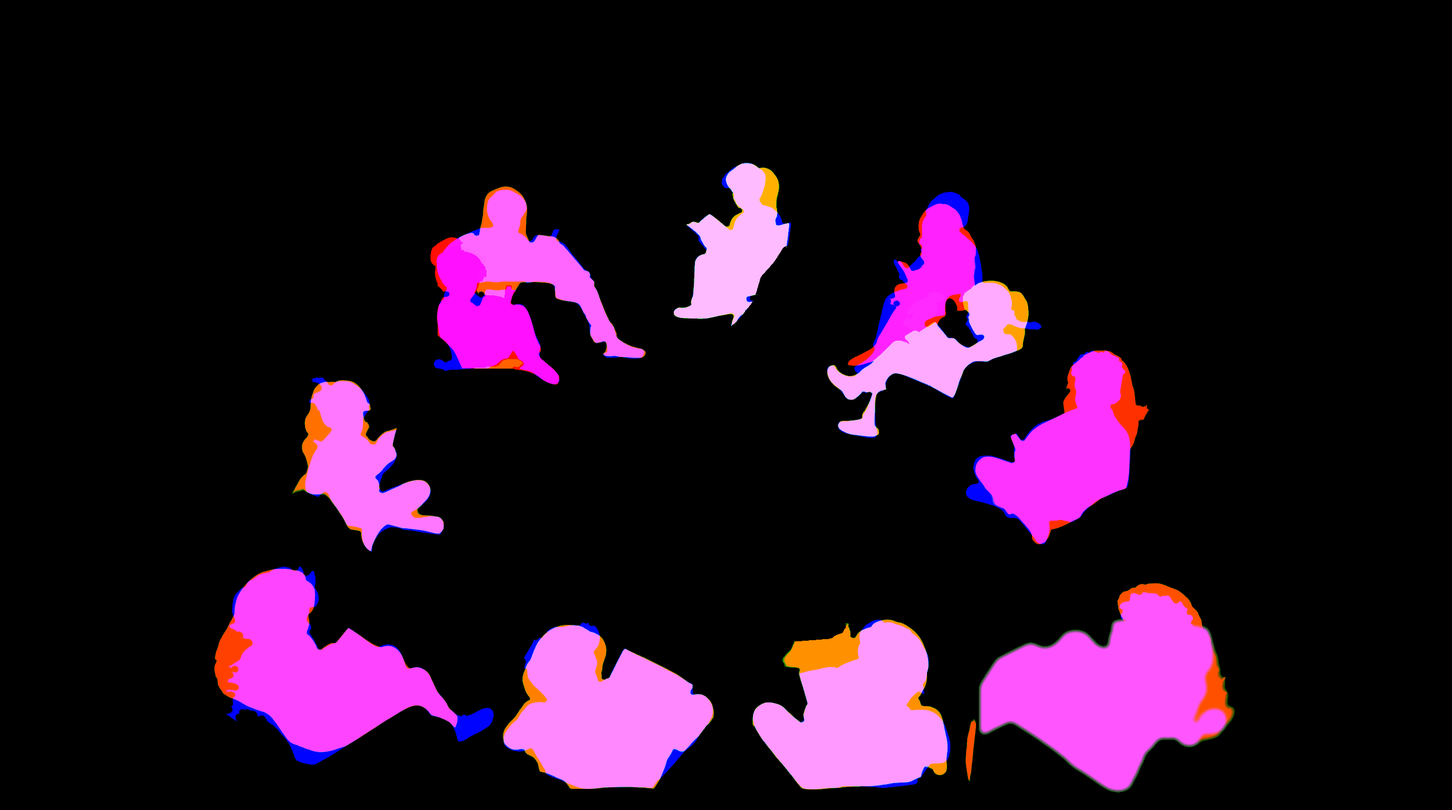
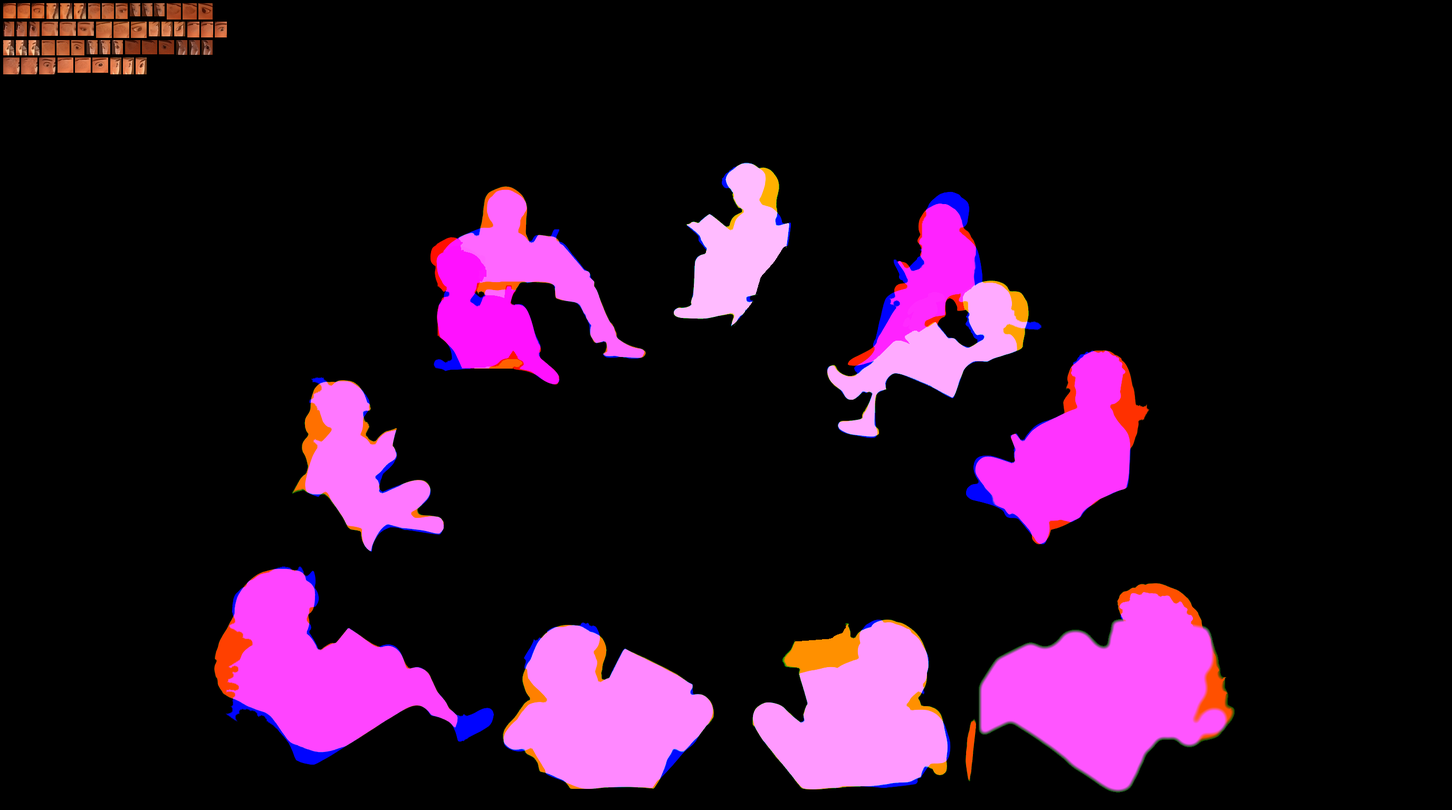
Reading room: eyes close under a lid of the reader's own skin
The founder: the blinks are broken. Zoomed in, a shut eye was a light plate
with a dark rim: the lid was painted from a few rows of skin above the eye.

Every eye's closed lids are now made from the face itself
(prototypes/reading-room/build_lids.py): the eye and its lash line are filled
in from the skin around them, with the skin's own grain, and kept in a corner
of the people mask no reader reaches. The shader slides that skin down from
the lash line, carries the lash line on its edge, and stops at the eye's own
corner (a wide outline had dragged a line across the nose).

Also: the man by day in round glasses closes his eye inside the lens and keeps
the frame; eyes hidden by hair or reflections no longer blink; a few eyes
were re-read where their points were off; every eye of a hall fits in the
shader at once (NE 8 -> 10), so no face winks. CLAUDE.md notes how these
pictures are built.

Changed region(s): [[0.0, 0.0, 0.1562, 0.0938]]

diff --git a/frontend/src/widgets/ReadingRoom/casts.js b/frontend/src/widgets/ReadingRoom/casts.js
@@ -1,11 +1,11 @@
 /* The reading room's two casts, from the founder's renders of 2026-10-06. Per hall (a: the wide photo, m: the phones'
    portrait):
    CAST_EYES: where each new face's eyes are, so the lids close over them, by time of day and cast (f, m), reader by
-   reader, as engine.js keeps a rig's eyes;
+   reader, as engine.js keeps a rig's eyes, and where their closed lids wait in the people mask (build_lids.py);
    CAST_BOX: each reader's box, grown to hold their figure in every render (build_figures.py), so none is cut;
    CAST_PAGES: page turns for the readers the old rig had none for (casts/pages.json), as engine.js PAGES, with
    mode 2 (an open book facing us) or 3 (a book seen from its cover: only the sheet's edge flicks past it).
    Written by prototypes/reading-room/casts_js.py; do not edit by hand. */
-export const CAST_EYES={"a":{"day":{"f":{"6":[[0.35102,0.2666,0.00277,-0.000495,0.001758,0.002279,0.000977,0]],"1":[[0.32068,0.34896,0.00303,-8.5e-05,0.002214,0.002344,0.0014,0],[0.3284,0.34873,0.00221,-0.000293,0.002376,0.002441,0.00112,0]],"2":[[0.64528,0.29219,0.00263,-0.000247,0.001432,0.002604,0.0011,0],[0.63854,0.2918,0.00155,8.5e-05,0.001562,0.001562,0.000879,0]],"3":[[0.75309,0.48724,0.0033,-0.000247,0.002148,0.00319,0.001198,0],[0.7432,0.48268,0.00233,0.000417,0.002344,0.002344,0.0011,0]],"7":[[0.23519,0.51989,0.00341,-0.000371,0.002507,0.003158,0.000801,0],[0.24613,0.51549,0.00168,-0.000254,0.001693,0.002214,0.000703,0]]},"m":{"6":[[0.35238,0.27266,0.00266,-0.000247,0.001432,0.001562,0.000977,0]],"1":[[0.32097,0.34876,0.00327,-0.000104,0.00319,0.004492,0.0014,0],[0.32812,0.34753,0.0021,-0.000254,0.002474,0.002995,0.00112,0]],"2":[[0.65162,0.27734,0.00208,-8.5e-05,0.001562,0.001758,0.0011,0],[0.64462,0.27572,0.00166,-0.000169,0.001497,0.001628,0.000879,0]],"3":[[0.75307,0.4903,0.00306,0.0,0.002018,0.00293,0.001198,0],[0.74302,0.48542,0.00202,-8.5e-05,0.002344,0.002604,0.0011,0]],"7":[[0.23868,0.52448,0.00359,-0.000247,0.002279,0.002409,0.000801,0],[0.24797,0.52031,0.00148,-8.5e-05,0.002018,0.002148,0.000703,0]]}},"night":{"f":{"6":[[0.35129,0.2668,0.00377,-0.000247,0.001562,0.002344,0.000977,0]],"1":[[0.32028,0.34971,0.00263,-0.000124,0.00166,0.003158,0.0014,0],[0.32812,0.3498,0.00233,-0.000332,0.002539,0.002669,0.00112,0]],"2":[[0.64515,0.29329,0.00235,-0.000169,0.001562,0.001823,0.0011,0],[0.63863,0.29219,0.00166,8.5e-05,0.001562,0.001693,0.000879,0]],"3":[[0.75365,0.48789,0.00306,-0.000247,0.002865,0.003255,0.001198,0],[0.74331,0.48138,0.00202,8.5e-05,0.002344,0.002539,0.0011,0]],"7":[[0.23556,0.52005,0.00355,-0.000247,0.002669,0.00319,0.000801,0],[0.24586,0.51589,0.00202,-0.000254,0.002018,0.002279,0.000703,0]]},"m":{"6":[[0.35247,0.27148,0.00388,-0.00041,0.002865,0.003255,0.000977,0]],"1":[[0.32013,0.34782,0.00237,-0.000625,0.002246,0.002181,0.0014,0],[0.32776,0.34629,0.0021,-0.000332,0.002279,0.002669,0.00112,0]],"2":[[0.65189,0.27728,0.0029,-0.000163,0.001823,0.002214,0.0011,0],[0.64462,0.27572,0.0021,-0.000169,0.001758,0.002148,0.000879,0]],"3":[[0.75363,0.49004,0.00335,0.000163,0.001953,0.002344,0.001198,0],[0.74284,0.48509,0.00197,0.0,0.002344,0.002865,0.0011,0]],"7":[[0.2389,0.52422,0.0035,-0.000247,0.002865,0.002669,0.000801,0],[0.24747,0.52083,0.0019,-8.5e-05,0.002604,0.00293,0.000703,0]]}}},"m":{"day":{"f":{"6":[[0.25749,0.37725,0.00377,-0.000142,0.000872,0.00109,0.000472,0]],"1":[[0.21029,0.42068,0.00496,-9.1e-05,0.000763,0.000981,0.000581,0]],"2":[[0.736,0.39117,0.00456,-9.1e-05,0.00069,0.000908,0.000472,0],[0.72217,0.39122,0.00437,0.000302,0.000309,0.001326,0.000378,0]],"3":[[0.80892,0.52206,0.00496,-9.1e-05,0.000836,0.001054,0.000556,0],[0.79658,0.51955,0.00277,0.000716,0.000509,0.000872,0.000512,0]],"7":[[0.08561,0.51137,0.00615,-9.1e-05,0.001199,0.001126,0.000392,0],[0.10384,0.50858,0.00377,-0.000233,0.000872,0.00109,0.000345,0]]},"m":{"6":[[0.25928,0.38121,0.00357,-0.000189,0.000981,0.001054,0.000472,0]],"1":[[0.21208,0.42271,0.00635,-0.000182,0.000836,0.000981,0.000581,0]],"2":[[0.74447,0.38521,0.00536,-9.1e-05,0.000981,0.001126,0.000472,0],[0.736,0.38532,0.00258,0.000912,0.000581,0.000945,0.000378,0]],"3":[[0.80859,0.52271,0.00576,0.0,0.000908,0.001126,0.000556,0],[0.796,0.52093,0.00286,0.000429,0.00069,0.000799,0.000512,0]],"7":[[0.0944,0.51392,0.00734,-9.1e-05,0.001199,0.001344,0.000392,0],[0.10758,0.51308,0.00277,-0.00024,0.000799,0.001163,0.000345,0]]}},"night":{"f":{"6":[[0.25667,0.37725,0.00437,-0.000138,0.000945,0.00109,0.000472,0]],"1":[[0.21338,0.42148,0.00476,-0.000185,0.00069,0.000981,0.000581,0]],"2":[[0.73861,0.39172,0.00576,-4.7e-05,0.000799,0.000872,0.000472,0],[0.72282,0.3919,0.00437,0.000465,0.000254,0.000908,0.000378,0]],"3":[[0.80957,0.52271,0.00655,0.000182,0.001126,0.001344,0.000556,0],[0.79655,0.51966,0.00298,0.000665,0.00069,0.000763,0.000512,0]],"7":[[0.09049,0.51283,0.00576,-0.000367,0.000763,0.001126,0.000392,0],[0.10612,0.50981,0.00337,-0.000425,0.000872,0.001017,0.000345,0]]},"m":{"6":[[0.25879,0.38105,0.00536,-0.00016,0.00089,0.001145,0.000472,0]],"1":[[0.21387,0.4206,0.00536,-0.000185,0.000836,0.000981,0.000581,0]],"2":[[0.74626,0.38423,0.00516,-0.000138,0.000945,0.00109,0.000472,0],[0.73568,0.38488,0.00258,0.000912,0.00109,0.000581,0.000378,0]],"3":[[0.81185,0.52373,0.00615,9.1e-05,0.001126,0.001126,0.000556,0],[0.79925,0.5224,0.00286,0.000309,0.0006,0.000854,0.000512,0]],"7":[[0.09326,0.51374,0.00794,-4.7e-05,0.001308,0.001453,0.000392,0],[0.10645,0.51305,0.00496,-0.000185,0.000908,0.001344,0.000345,0]]}}}};
+export const CAST_EYES={"a":{"day":{"f":{"6":[[0.35102,0.2666,0.00277,-0.000495,0.001758,0.002279,0.001367,0,-0.3157703,-0.2311198,0.0101744,0.853]],"1":[[0.32068,0.34896,0.00303,-8.5e-05,0.002214,0.002344,0.00179,0,-0.3139535,-0.3359375,0.0105378,0.85],[0.3284,0.34873,0.00221,-0.000293,0.002376,0.002441,0.00151,0,-0.2903343,-0.3359375,0.0090843,0.862]],"2":[[0.64528,0.29219,0.00263,-0.000247,0.001432,0.002604,0.001491,0,-0.5792151,-0.2799479,0.0101744,0.855],[0.63854,0.2918,0.00155,8.5e-05,0.001562,0.001562,0.00179,0,-0.5425145,-0.2792969,0.0079942,0.88]],"3":[[0.75309,0.48724,0.0033,-0.000247,0.002148,0.00319,0.002109,0,-0.6311773,-0.4739583,0.0112645,0.848],[0.7432,0.48268,0.00233,0.000417,0.002344,0.002344,0.002663,0,-0.7369186,-0.4459635,0.0094477,0.859]],"7":[[0.23519,0.51989,0.00341,-0.000371,0.002507,0.003158,0.001191,0,-0.1682413,-0.484375,0.0116279,0.847],[0.24613,0.51549,0.00168,-0.000254,0.001693,0.002214,0.002266,0,-0.1457122,-0.4798177,0.0079942,0.875]]},"m":{"6":[[0.35238,0.27266,0.00266,-0.000247,0.001432,0.001562,0.001367,0,-0.2365552,-0.2148438,0.0101744,0.855]],"1":[[0.32089,0.34863,0.00274,0.0,0.00306,0.00332,0.0,0,-0.1951308,-0.3138021,0.0101744,0.728]],"2":[[0.65162,0.27734,0.00208,-8.5e-05,0.001562,0.001758,0.002012,0,-0.6457122,-0.21875,0.0087209,0.864],[0.64462,0.27572,0.00166,-0.000169,0.001497,0.001628,0.00179,0,-0.6126453,-0.2174479,0.0079942,0.875]],"3":[[0.75307,0.4903,0.00306,0.0,0.002018,0.00293,0.001589,0,-0.6954942,-0.4316406,0.0105378,0.85],[0.74302,0.48542,0.00202,-8.5e-05,0.002344,0.002604,0.002012,0,-0.6544331,-0.4257812,0.0087209,0.865]],"7":[[0.23868,0.52448,0.00359,-0.000247,0.002279,0.002409,0.001712,0,-0.2311047,-0.4433594,0.0119913,0.845],[0.24797,0.52031,0.00148,-8.5e-05,0.002018,0.002148,0.001094,0,-0.2063953,-0.4401042,0.0076308,0.882]]}},"night":{"f":{"6":[[0.35129,0.2668,0.00377,-0.000247,0.001562,0.002344,0.001367,0,-0.3172238,-0.2317708,0.0123547,0.844]],"1":[[0.32028,0.34971,0.00263,-0.000124,0.00166,0.003158,0.00179,0,-0.3139535,-0.3372396,0.009811,0.855],[0.32812,0.3498,0.00233,-0.000332,0.002539,0.002669,0.00151,0,-0.2921512,-0.3365885,0.0094477,0.859]],"2":[[0.64515,0.29329,0.00235,-0.000169,0.001562,0.001823,0.002663,0,-0.5803052,-0.2799479,0.0094477,0.859],[0.63863,0.29219,0.00166,8.5e-05,0.001562,0.001693,0.00127,0,-0.5457849,-0.280599,0.0083576,0.875]],"3":[[0.75365,0.48789,0.00306,-0.000247,0.002865,0.003255,0.001589,0,-0.6340843,-0.4746094,0.0109012,0.85],[0.74331,0.48138,0.00202,8.5e-05,0.002344,0.002539,0.001491,0,-0.7376453,-0.4459635,0.0087209,0.865]],"7":[[0.23556,0.52005,0.00355,-0.000247,0.002669,0.00319,0.001712,0,-0.1642442,-0.483724,0.0119913,0.845],[0.24586,0.51589,0.00202,-0.000254,0.002018,0.002279,0.001615,0,-0.1398983,-0.4804688,0.0087209,0.865]]},"m":{"6":[[0.35247,0.27148,0.00388,-0.00041,0.002865,0.003255,0.001888,0,-0.3448401,-0.1907552,0.0123547,0.843]],"1":[[0.32013,0.34782,0.00237,-0.000625,0.002246,0.002181,0.00179,0,-0.1871366,-0.311849,0.0094477,0.859],[0.32776,0.34629,0.0021,-0.000332,0.002279,0.002669,0.00151,0,-0.3219477,-0.2877604,0.0087209,0.864]],"2":[[0.65189,0.27728,0.0029,-0.000163,0.001823,0.002214,0.002012,0,-0.6188227,-0.21875,0.0101744,0.851],[0.64462,0.27572,0.0021,-0.000169,0.001758,0.002148,0.00127,0,-0.5813953,-0.218099,0.0087209,0.864]],"3":[[0.75363,0.49004,0.00335,0.000163,0.001953,0.002344,0.001589,0,-0.6624273,-0.4322917,0.0116279,0.847],[0.74284,0.48509,0.00197,0.0,0.002344,0.002865,0.001491,0,-0.6177326,-0.4270833,0.0087209,0.867]],"7":[[0.2389,0.52422,0.0035,-0.000247,0.002865,0.002669,0.001191,0,-0.1940407,-0.4440104,0.0119913,0.846],[0.24747,0.52083,0.0019,-8.5e-05,0.002604,0.00293,0.002266,0,-0.1678779,-0.4401042,0.0087209,0.868]]}}},"m":{"day":{"f":{"6":[[0.25749,0.37725,0.00377,-0.000142,0.000872,0.00109,0.00069,0,-0.0390625,-0.3706395,0.016276,0.864]],"1":[[0.21029,0.42068,0.00496,-9.1e-05,0.000763,0.000981,0.000799,0,-0.1985677,-0.4142442,0.0182292,0.853]],"2":[[0.736,0.39117,0.00456,-9.1e-05,0.00069,0.000908,0.00069,0,-0.6692708,-0.384811,0.0175781,0.856]],"3":[[0.80892,0.52206,0.00496,-9.1e-05,0.000836,0.001054,0.000774,0,-0.688151,-0.515625,0.0188802,0.853],[0.79658,0.51955,0.00277,0.000716,0.000509,0.000872,0.00073,0,-0.6210938,-0.512718,0.0136719,0.88]],"7":[[0.08561,0.51137,0.00615,-9.1e-05,0.001199,0.001126,0.00061,0,0.1842448,-0.5047238,0.0201823,0.847],[0.10384,0.50858,0.00377,-0.000233,0.000872,0.00109,0.000563,0,0.2252604,-0.5021802,0.016276,0.864]]},"m":{"6":[[0.25928,0.38121,0.00357,-0.000189,0.000981,0.001054,0.00069,0,0.3860677,-0.3742733,0.015625,0.867]],"1":[[0.21208,0.42271,0.00635,-0.000182,0.000836,0.000981,0.000799,0,0.1692708,-0.416061,0.0214844,0.845]],"2":[[0.74447,0.38521,0.00536,-9.1e-05,0.000981,0.001126,0.00069,0,-0.2994792,-0.3786337,0.0188802,0.851],[0.736,0.38532,0.00258,0.000912,0.000581,0.000945,0.000887,0,-0.2363281,-0.377907,0.0136719,0.884]],"3":[[0.80859,0.52271,0.00576,0.0,0.000908,0.001126,0.000774,0,-0.2643229,-0.5159884,0.0195312,0.848],[0.796,0.52093,0.00286,0.000429,0.00069,0.000799,0.00073,0,-0.1953125,-0.5141715,0.0143229,0.877]],"7":[[0.09508,0.51424,0.00635,-4.7e-05,0.000945,0.00149,0.00061,0,0.6002604,-0.5076308,0.0208333,0.845],[0.10758,0.51308,0.00277,-0.00024,0.000799,0.001163,0.000563,0,0.6477865,-0.5065407,0.0143229,0.88]]}},"night":{"f":{"6":[[0.25667,0.37725,0.00437,-0.000138,0.000945,0.00109,0.00069,0,-0.0182292,-0.3706395,0.0169271,0.857]],"1":[[0.21338,0.42148,0.00476,-0.000185,0.00069,0.000981,0.000799,0,-0.2018229,-0.4149709,0.0182292,0.855]],"2":[[0.73861,0.39172,0.00576,-4.7e-05,0.000799,0.000872,0.00069,0,-0.6705729,-0.3851744,0.0201823,0.848]],"3":[[0.80957,0.52271,0.00655,0.000182,0.001126,0.001344,0.000774,0,-0.6796875,-0.515625,0.0214844,0.845],[0.79655,0.51966,0.00298,0.000665,0.00069,0.000763,0.00073,0,-0.6048177,-0.512718,0.014974,0.875]],"7":[[0.09049,0.51283,0.00576,-0.000367,0.000763,0.001126,0.00061,0,0.2005208,-0.5061773,0.0195312,0.848],[0.10612,0.50981,0.00337,-0.000425,0.000872,0.001017,0.000563,0,0.2421875,-0.502907,0.015625,0.869]]},"m":{"6":[[0.25879,0.38105,0.00536,-0.00016,0.00089,0.001145,0.00069,0,0.3997396,-0.3742733,0.0188802,0.851]],"1":[[0.21387,0.4206,0.00536,-0.000185,0.000836,0.000981,0.000799,0,0.1835938,-0.4138808,0.0188802,0.851]],"2":[[0.74626,0.38423,0.00516,-0.000138,0.000945,0.00109,0.000981,0,-0.2916667,-0.3771802,0.0188802,0.852],[0.73568,0.38488,0.00258,0.000912,0.00109,0.000581,0.000887,0,-0.2265625,-0.3771802,0.0130208,0.884]],"3":[[0.81185,0.52373,0.00615,9.1e-05,0.001126,0.001126,0.000774,0,-0.2591146,-0.5167151,0.0208333,0.847],[0.79925,0.5224,0.00286,0.000309,0.0006,0.000854,0.00073,0,-0.186849,-0.5159884,0.0143229,0.877]],"7":[[0.08952,0.5141,0.00615,0.000138,0.000799,0.001054,0.00061,0,0.6269531,-0.5076308,0.0201823,0.847],[0.10433,0.51297,0.00396,-0.000654,0.000363,0.001054,0.001217,0,0.671224,-0.505814,0.016276,0.862]]}}}};
 export const CAST_BOX={"a":{"1":[0.25,0.268,0.403,0.493],"2":[0.572,0.234,0.693,0.498],"3":[0.653,0.408,0.803,0.701],"4":[0.088,0.668,0.362,0.986],"5":[0.645,0.698,0.852,0.98],"6":[0.3052,0.225,0.455,0.4551],"7":[0.195,0.45,0.34,0.725],"8":[0.33,0.745,0.505,0.98],"9":[0.505,0.75,0.672,0.982],"10":[0.562,0.332,0.7217,0.558],"11":[0.462,0.188,0.555,0.4036]},"m":{"1":[0.0859,0.3783,0.347,0.5073],"2":[0.6074,0.363,0.8229,0.4895],"3":[0.6497,0.4807,0.8757,0.6344],"4":[0.0,0.7078,0.2995,0.8292],"5":[0.7188,0.7242,0.9896,0.8361],"6":[0.1882,0.3448,0.4128,0.4873],"7":[0.002,0.4633,0.2565,0.6305],"8":[0.2656,0.7478,0.5156,0.8692],"9":[0.5202,0.7525,0.7448,0.8608],"10":[0.582,0.4026,0.8672,0.5549],"11":[0.4193,0.3223,0.6074,0.4495]}};
 export const CAST_PAGES={"a":{"1":{"s0":[0.34775,0.3724],"d":[0.00145,0.00911],"r":[-0.01853,-0.00586],"l":[0.00145,-0.01758],"up":[-0.00283,-0.00677],"away":0,"mode":3,"tiles":[2,3],"tint":[1.25,1.25,1.25],"under":-1},"2":{"s0":[0.62246,0.33464],"d":[0.00073,0.00911],"r":[0.01781,-0.00651],"l":[-0.00981,-0.01107],"up":[0.00142,-0.0127],"away":0,"mode":3,"tiles":[2,3],"tint":[0.9,0.9,0.9],"under":-1},"6":{"s0":[0.38481,0.29362],"d":[0.00073,0.00911],"r":[-0.01708,-0.00521],"l":[0.00581,-0.00977],"up":[-0.00189,-0.011],"away":0,"mode":3,"tiles":[2,3],"tint":[1.25,1.25,1.25],"under":-1},"7":{"s0":[0.25581,0.54883],"d":[0.00145,0.01302],"r":[-0.01962,0.0],"l":[0.01054,-0.01758],"up":[-0.00331,-0.01439],"away":0,"mode":3,"tiles":[2,3],"tint":[1.011,1.011,1.011],"under":-1},"8":{"s0":[0.45422,0.82161],"d":[-0.01453,0.06706],"r":[0.01308,0.01497],"l":[-0.02798,0.0],"up":[-0.00109,-0.00456],"away":0,"mode":2,"tiles":[2,3],"tint":[0.708,0.708,0.708],"under":-1},"11":{"s0":[0.47602,0.27441],"d":[0.0109,0.01693],"r":[0.01272,-0.01009],"l":[-0.00291,0.00228],"up":[-0.00182,-0.00521],"away":0,"mode":2,"tiles":[2,3],"tint":[1.25,1.25,1.25],"under":-1}},"m":{"4":{"s0":[0.16178,0.75472],"d":[-0.01855,0.02507],"r":[0.01432,0.00327],"l":[-0.02702,-0.00927],"up":[-0.00195,-0.00182],"away":0,"mode":2,"tiles":[4,5],"tint":[0.759,0.759,0.759],"under":-1},"5":{"s0":[0.82161,0.76036],"d":[0.02604,0.02634],"r":[0.0293,-0.00963],"l":[-0.01302,0.00309],"up":[-0.0013,-0.00182],"away":0,"mode":2,"tiles":[4,5],"tint":[0.7,0.7,0.7],"under":-1},"8":{"s0":[0.42969,0.77108],"d":[-0.00781,0.03379],"r":[0.04395,0.01163],"l":[-0.02441,-0.00799],"up":[-0.00195,-0.00218],"away":0,"mode":2,"tiles":[4,5],"tint":[0.7,0.7,0.7],"under":-1},"9":{"s0":[0.61784,0.77653],"d":[0.01693,0.0327],"r":[0.02865,-0.004],"l":[-0.0319,0.00363],"up":[0.00195,-0.00182],"away":0,"mode":2,"tiles":[4,5],"tint":[0.756,0.756,0.756],"under":-1},"11":{"s0":[0.46908,0.38081],"d":[0.02116,0.01199],"r":[0.01172,-0.00581],"l":[-0.00716,-0.00073],"up":[-0.00391,-0.00291],"away":0,"mode":2,"tiles":[4,5],"tint":[1.189,1.189,1.189],"under":-1},"1":{"s0":[0.25423,0.43401],"d":[0.00251,0.00477],"r":[-0.02989,-0.00304],"l":[0.00201,-0.0092],"up":[-0.00468,-0.00354],"away":0,"mode":3,"tiles":[4,5],"tint":[1.25,1.25,1.25],"under":-1},"2":{"s0":[0.69862,0.41413],"d":[0.00115,0.00474],"r":[0.02856,-0.00329],"l":[-0.01571,-0.0058],"up":[0.00229,-0.00659],"away":0,"mode":3,"tiles":[4,5],"tint":[0.9,0.9,0.9],"under":-1},"6":{"s0":[0.31234,0.39192],"d":[0.00125,0.00479],"r":[-0.02767,-0.00263],"l":[0.00933,-0.00518],"up":[-0.00314,-0.00578],"away":0,"mode":3,"tiles":[4,5],"tint":[1.211,1.211,1.211],"under":-1},"7":{"s0":[0.11732,0.52649],"d":[0.00269,0.0066],"r":[-0.03,-2e-05],"l":[0.01548,-0.0089],"up":[-0.00557,-0.0073],"away":0,"mode":3,"tiles":[4,5],"tint":[0.917,0.917,0.917],"under":-1}}};

diff --git a/frontend/src/widgets/ReadingRoom/engine.js b/frontend/src/widgets/ReadingRoom/engine.js
@@ -11,8 +11,10 @@ const lerp=(a,b,t)=>a+(b-a)*t;
 const eio=t=>t<.5?4*t*t*t:1-Math.pow(-2*t+2,3)/2;
 const rng=seed=>{let a=seed>>>0;return()=>{a=a+0x6D2B79F5|0;let t=Math.imul(a^a>>>15,1|a);t=t+Math.imul(t^t>>>7,61|t)^t;return((t^t>>>14)>>>0)/4294967296}};
 
-/* the shader draws up to NS readers at once, NP of them turning pages, with NE eyes that blink; the pages texture holds NT page tiles */
-const NS=12,NP=5,NE=8,NT=10;
+/* the shader draws up to NS readers at once, NP of them turning pages, with NE eyes that blink; the pages texture holds NT page tiles.
+   NE covers every eye of a hall at once (9 in the wide hall): with fewer, a face blinking in the same moment as the
+   others could get one eye and wink */
+const NS=12,NP=5,NE=10,NT=10;
 const VS=`attribute vec2 aPos;varying vec2 vUv;void main(){vUv=aPos*.5+.5;gl_Position=vec4(aPos,0.,1.);}`;
 const RAYS_FS=`precision highp float;varying vec2 vUv;uniform sampler2D uImg;uniform vec2 uSun;uniform float uAR;
 void main(){vec2 uv=vUv;vec2 d=(uv-uSun)/56.;vec2 s=uv;vec3 acc=vec3(0.);float w=1.;
@@ -23,7 +25,7 @@ void main(){vec2 uv=vUv;vec2 d=(uv-uSun)/56.;vec2 s=uv;vec3 acc=vec3(0.);float w
 const mainFS=H=>`precision highp float;varying vec2 vUv;
 uniform sampler2D uImg;uniform sampler2D uRay;uniform vec2 uRes;uniform vec2 uOff;uniform vec2 uSize;uniform vec2 uPar;uniform float uTime;uniform float uWake;uniform float uNight;uniform float uRayK;
 uniform vec4 uWin;uniform vec3 uFire;uniform vec4 uFireBox;uniform vec4 uLamp[24];uniform int uNL;uniform vec4 uSway[6];uniform float uLoaded;uniform float uCasts;uniform sampler2D uWith;uniform sampler2D uWith2;uniform sampler2D uMask;uniform sampler2D uRig;uniform sampler2D uSoft;uniform sampler2D uPages;
-uniform vec4 uS[${NS*8}];uniform vec4 uPg[${NP*7}];uniform vec4 uEye[${NE}];uniform vec4 uLid[${NE}];uniform vec4 uCup[8];uniform float uGK;uniform vec2 uSteamK;uniform vec2 uMaskPx;
+uniform vec4 uS[${NS*8}];uniform vec4 uPg[${NP*7}];uniform vec4 uEye[${NE}];uniform vec4 uLid[${NE}];uniform vec4 uLidK[${NE}];uniform vec4 uCup[8];uniform float uGK;uniform vec2 uSteamK;uniform vec2 uMaskPx;
 float hash(vec2 p){return fract(sin(dot(p,vec2(127.1,311.7)))*43758.5453);}
 vec2 aff(vec4 m,vec2 t,vec2 p){return vec2(m.x*p.x+m.y*p.y,m.z*p.x+m.w*p.y)+t;}
 /* every reader comes from a render of the hall: where the hall has two casts, a reader numbered past 32 is a man from the
@@ -42,9 +44,30 @@ vec4 person(vec2 s,float id){float g=floor(texture2D(uMask,(floor(s*uMaskPx)+.5)
    the old lid was one flat colour with a hard top, and showed on the face as a plate) */
 vec3 eyeRow(float x,float y,float dx,float id){return (photo(vec2(x-dx,y),id)+2.*photo(vec2(x,y),id)+photo(vec2(x+dx,y),id))*.25;}
 vec3 brighter(vec3 a,vec3 b){return dot(b,vec3(.299,.587,.114))>dot(a,vec3(.299,.587,.114))?b:a;}
-vec3 lid(vec2 s,vec3 col,vec4 E,vec4 L,float w,float id){
+/* a face of the two casts closes its eye with lids made for it (2026-10-07: prototypes/reading-room/build_lids.py; the
+   painted lid above still showed as a plate on some faces): the upper lid's skin, filled in from the face around the
+   eye, slides down from the lash line, the lash line rides on its edge, and the shut eye's lower lid is skin too. The
+   lids wait in a corner of the people mask that no reader reaches: K.xy is the offset to the upper lid, K.z the step to
+   the lower lid and on to the lash band. K.w is where the eye itself ends, in the outline's half widths: the outline is
+   wider than the eye, and past the eye's end the lid does nothing (a wide one had carried the other eye's corner across
+   the nose). The px values match build_lids.py (LIFT .4, LOW 2.5) */
+vec3 lidMade(vec2 s,vec3 col,vec4 E,vec4 L,vec4 K,float w,float x,float ax){
+ float end=K.w+1.5/(E.z*uMaskPx.x);
+ if(ax>=end)return col;
+ float py=1./uMaskPx.y,pr=max(0.,1.-x*x),yc=E.y+E.w*x,top=yc-L.x*pr,bot=yc+L.y*pr;
+ float T=top-L.z*(.4+.6*pr),lt=top-T,M=top+(bot+.2*L.z*pr-top)*w,e0=M-lt,B=bot+.2*L.z*pr+2.5*py;
+ if(s.y<T-py||s.y>B+py)return col;
+ vec3 o;
+ if(s.y<e0)o=texture2D(uMask,s+K.xy).rgb*(1.-.05*w*clamp((s.y-T)/max(e0-T,1e-6),0.,1.));
+ else if(s.y<M)o=texture2D(uMask,vec2(s.x+K.x+2.*K.z,T-.4*py+(s.y-e0)+K.y)).rgb;
+ else o=mix(col,texture2D(uMask,s+K.xy+vec2(K.z,0.)).rgb,smoothstep(.7,1.,w));
+ return mix(col,o,smoothstep(T-.6*py,T+.4*py,s.y)*(1.-smoothstep(B-.5*py,B+.5*py,s.y))*(1.-smoothstep(K.w,end,ax))*smoothstep(0.,.06,w));
+}
+vec3 lid(vec2 s,vec3 col,vec4 E,vec4 L,vec4 K,float w,float id){
  if(w<.002||E.z<=0.)return col;
- float x=(s.x-E.x)/E.z,ax=abs(x);if(ax>=1.05)return col;
+ float x=(s.x-E.x)/E.z,ax=abs(x);
+ if(K.w>0.)return lidMade(s,col,E,L,K,w,x,ax);
+ if(ax>=1.05)return col;
  float py=1./uMaskPx.y,pr=max(0.,1.-ax*ax),yc=E.y+E.w*x,top=yc-L.x*pr,bot=yc+L.y*pr,lt=L.z*(.4+.6*pr);
  float T=min(top-lt-py,yc-(L.x+L.z)*sqrt(pr)-.5*py),M=mix(top,bot+.15*L.z*pr,w),y0=M-lt;
  if(s.y<T-py||s.y>M+py)return col;
@@ -115,7 +138,7 @@ void main(){
   /* blinks wherever the face is drawn: a new face need not sit where the rig's rigid head is */
   float bl=uS[i*8+7].x;
   vec4 q=person(s,id);
-  if(bl>.002)for(int e=0;e<${NE};e++){vec4 L=uLid[e];if(abs(L.w-float(i))<.5)q.rgb=lid(s,q.rgb,uEye[e],L,bl,id);}
+  if(bl>.002)for(int e=0;e<${NE};e++){vec4 L=uLid[e];if(abs(L.w-float(i))<.5)q.rgb=lid(s,q.rgb,uEye[e],L,uLidK[e],bl,id);}
   c=mix(c,q.rgb,q.a*vis);
 ${limbsGLSL(H)}
   /* the book with the hands holding it, crisp and whole */
@@ -171,7 +194,7 @@ ${limbsGLSL(H)}
   /* the head, rigid, with its own blinks */
   float rH=texture2D(uRig,pH).r;
   if(rH>.002){q=person(pH,id);
-   if(bl>.002)for(int e=0;e<${NE};e++){vec4 L=uLid[e];if(abs(L.w-float(i))<.5)q.rgb=lid(pH,q.rgb,uEye[e],L,bl,id);}
+   if(bl>.002)for(int e=0;e<${NE};e++){vec4 L=uLid[e];if(abs(L.w-float(i))<.5)q.rgb=lid(pH,q.rgb,uEye[e],L,uLidK[e],bl,id);}
    c=mix(c,q.rgb,q.a*rH*vis);}
  }
  /* steam over the hot cups: a soft plume that rises, widens, curls and thins out */
@@ -265,7 +288,7 @@ const PAGES_A={
 /* what the shader gets each frame: a slot per reader in view (box, torso reach, the torso, head and book maps, id, fade, blink),
    a slot per reader who turns pages (the page, its phase and tiles, the wrist map), and every eye with the slot it belongs to */
 let RIG=RIG_A,PAGES=PAGES_A;
-const slotBuf=new Float32Array(NS*32),pgBuf=new Float32Array(NP*28),eyeBuf=new Float32Array(NE*4),lidBuf=new Float32Array(NE*4),cupBuf=new Float32Array(32);
+const slotBuf=new Float32Array(NS*32),pgBuf=new Float32Array(NP*28),eyeBuf=new Float32Array(NE*4),lidBuf=new Float32Array(NE*4),lidKBuf=new Float32Array(NE*4),cupBuf=new Float32Array(32);
 let frameSlots={ns:0,np:0,ne:0};
 /* affine maps in photo pixels: [a,b,c,d,e,f] is x'=a·x+b·y+e, y'=c·x+d·y+f */
 const aMul=(m,n)=>[m[0]*n[0]+m[1]*n[2],m[0]*n[1]+m[1]*n[3],m[2]*n[0]+m[3]*n[2],m[2]*n[1]+m[3]*n[3],m[0]*n[4]+m[1]*n[5]+m[4],m[2]*n[4]+m[3]*n[5]+m[5]];
@@ -363,7 +386,7 @@ function motion(id,p,now,vis){
   if(G&&turning&&F.np<NP){const q=F.np++*28;
     pgBuf.set([...G.s0,...G.d,...G.r,...G.l,...G.up,G.mode??G.away,1,ph,G.tiles[0],G.tiles[1],sl,...G.tint,G.under],q);
     if(R.wrist){putInv(Tw,pgBuf,q+20);pgBuf[q+26]=1}}
-  if(blink>0)for(const e of EY||[])if(F.ne<NE){const k=F.ne++*4;eyeBuf.set(e.slice(0,4),k);lidBuf.set([...e.slice(4,7),sl],k)}
+  if(blink>0)for(const e of EY||[])if(F.ne<NE){const k=F.ne++*4;eyeBuf.set(e.slice(0,4),k);lidBuf.set([...e.slice(4,7),sl],k);lidKBuf.set(e.length>11?[e[8],e[9],e[10],e[11]]:[0,0,0,0],k)}
 }
 
 
@@ -429,7 +452,7 @@ export function seatChar(hall,seat){for(const [id,c] of Object.entries(HALLS[hal
 
 const DUST=[...Array(170)].map((_,i)=>{const r=rng(i*7+3);return {t:r(),s:r()*2-1,ph:r()*6.28,sp:.2+r()*.6,sz:.5+r()*1.4,a:.25+r()*.75}});
 const EMBERS=[...Array(26)].map((_,i)=>{const r=rng(i*13+5);return {x:r(),t:r(),sp:.35+r()*.6,dr:r()*2-1,sz:.6+r()*1.2}});
-const UNIFORMS=['uImg','uRay','uRes','uOff','uSize','uPar','uTime','uWake','uNight','uRayK','uWin','uFire','uFireBox','uLamp','uNL','uSway','uLoaded','uCasts','uWith','uWith2','uMask','uRig','uSoft','uPages','uS','uPg','uEye','uLid','uCup','uGK','uSteamK','uMaskPx'];
+const UNIFORMS=['uImg','uRay','uRes','uOff','uSize','uPar','uTime','uWake','uNight','uRayK','uWin','uFire','uFireBox','uLamp','uNL','uSway','uLoaded','uCasts','uWith','uWith2','uMask','uRig','uSoft','uPages','uS','uPg','uEye','uLid','uLidK','uCup','uGK','uSteamK','uMaskPx'];
 
 /* opts: hall, base (url of the photos), canvas, fx, stage, frame, edge, teaser, ui, tags, scrollEl (null: the room is shown whole),
    variant ('day' | 'night'), small (phone-sized photos), reduced (less motion), onFlip(key) when a reader turns a page */
@@ -608,7 +631,7 @@ export function createRoomEngine(opts){
       const gate=seg(P,.5+i*.035,.62+i*.035);let boost=0;for(const s of seats)if(s.lamp===i)boost=Math.max(boost,s.level);
       lampBuf.set([L[0],L[1],gate*(.35+.95*boost)*(1-.6*night),L[2]],n*4);n++;
     });
-    slotBuf.fill(0);pgBuf.fill(0);eyeBuf.fill(0);lidBuf.fill(0);for(let k=0;k<NP;k++)pgBuf[k*28+15]=-1;for(let k=0;k<NE;k++)lidBuf[k*4+3]=-1;frameSlots={ns:0,np:0,ne:0};
+    slotBuf.fill(0);pgBuf.fill(0);eyeBuf.fill(0);lidBuf.fill(0);lidKBuf.fill(0);for(let k=0;k<NP;k++)pgBuf[k*28+15]=-1;for(let k=0;k<NE;k++)lidBuf[k*4+3]=-1;frameSlots={ns:0,np:0,ne:0};
     const peopleReady=!!(tex.people&&shared.rig&&shared.soft),moving=[];
     seats.forEach((s,i)=>{
       const o=s.occ,tgt=o?(o.status==='reading'?1:.3):0;
@@ -628,7 +651,7 @@ export function createRoomEngine(opts){
       const P6=tex.people;
       [['uWith',P6&&P6.tex,2],['uMask',P6&&P6.mask,3],['uRig',shared.rig,4],['uSoft',shared.soft,5],['uPages',P6&&P6.pages,6],['uWith2',P6&&P6.tex2,7]].forEach(([u,t,i])=>{gl.activeTexture(gl.TEXTURE0+i);gl.bindTexture(gl.TEXTURE_2D,peopleReady&&t?t:tex.ray);gl.uniform1i(U[u],i)});
       if(!peopleReady)frameSlots.ns=0,slotBuf.fill(0);
-      gl.uniform4fv(U.uS,slotBuf);gl.uniform4fv(U.uPg,pgBuf);gl.uniform4fv(U.uEye,eyeBuf);gl.uniform4fv(U.uLid,lidBuf);
+      gl.uniform4fv(U.uS,slotBuf);gl.uniform4fv(U.uPg,pgBuf);gl.uniform4fv(U.uEye,eyeBuf);gl.uniform4fv(U.uLid,lidBuf);gl.uniform4fv(U.uLidK,lidKBuf);
       const shown={};for(const s of seats)if(s.lastChar)shown[s.lastChar]=Math.max(shown[s.lastChar]||0,s.vis);
       cupBuf.fill(0);H.cups.slice(0,8).forEach((cp,i)=>cupBuf.set([cp[0],cp[1]-.004,seg(P,.6,.85)*(1-(cp[2]?shown[cp[2]]||0:0)),.55+cp[1]*.75],i*4));gl.uniform4fv(U.uCup,cupBuf);gl.uniform4f(U.uFireBox,...H.fireBox);gl.uniform1f(U.uGK,H.gk||1);gl.uniform1f(U.uCasts,CASTS?1:0);gl.uniform2f(U.uMaskPx,PW,PH);gl.uniform2f(U.uSteamK,...(H.steam||[1,1]));
       gl.activeTexture(gl.TEXTURE0);gl.bindTexture(gl.TEXTURE_2D,tex.tex);gl.uniform1i(U.uImg,0);

diff --git a/CLAUDE.md b/CLAUDE.md
@@ -65,3 +65,8 @@ it in a browser, phone width (390px) included.
   score; `reading_log_books` splits it across books («Что читаю»). A finished book's title
   is also the first line of the day's comment, which the shelf and covers read.
 - Existing members stay free forever; monetisation ideas must not take away what they have.
+- **Reading room pictures:** `frontend/public/reading-room/` and `widgets/ReadingRoom/casts.js` are built on the
+  founder's Mac by `~/powerbook-sync/prototypes/reading-room/` (not in git): `seg_birefnet.py` → `dump_owners.py` →
+  `sam_masks.py` → `build_figures.py` → `build_lids.py` → `casts_js.py`. The top-left corner of each `*-people.png`
+  holds the readers' closed eyelids: never crop or repaint it. The engine asks for these files with a hash of their
+  bytes in the URL (`__RR_V__`, set in `vite.config.ts`), so a changed picture reaches browsers at once.
